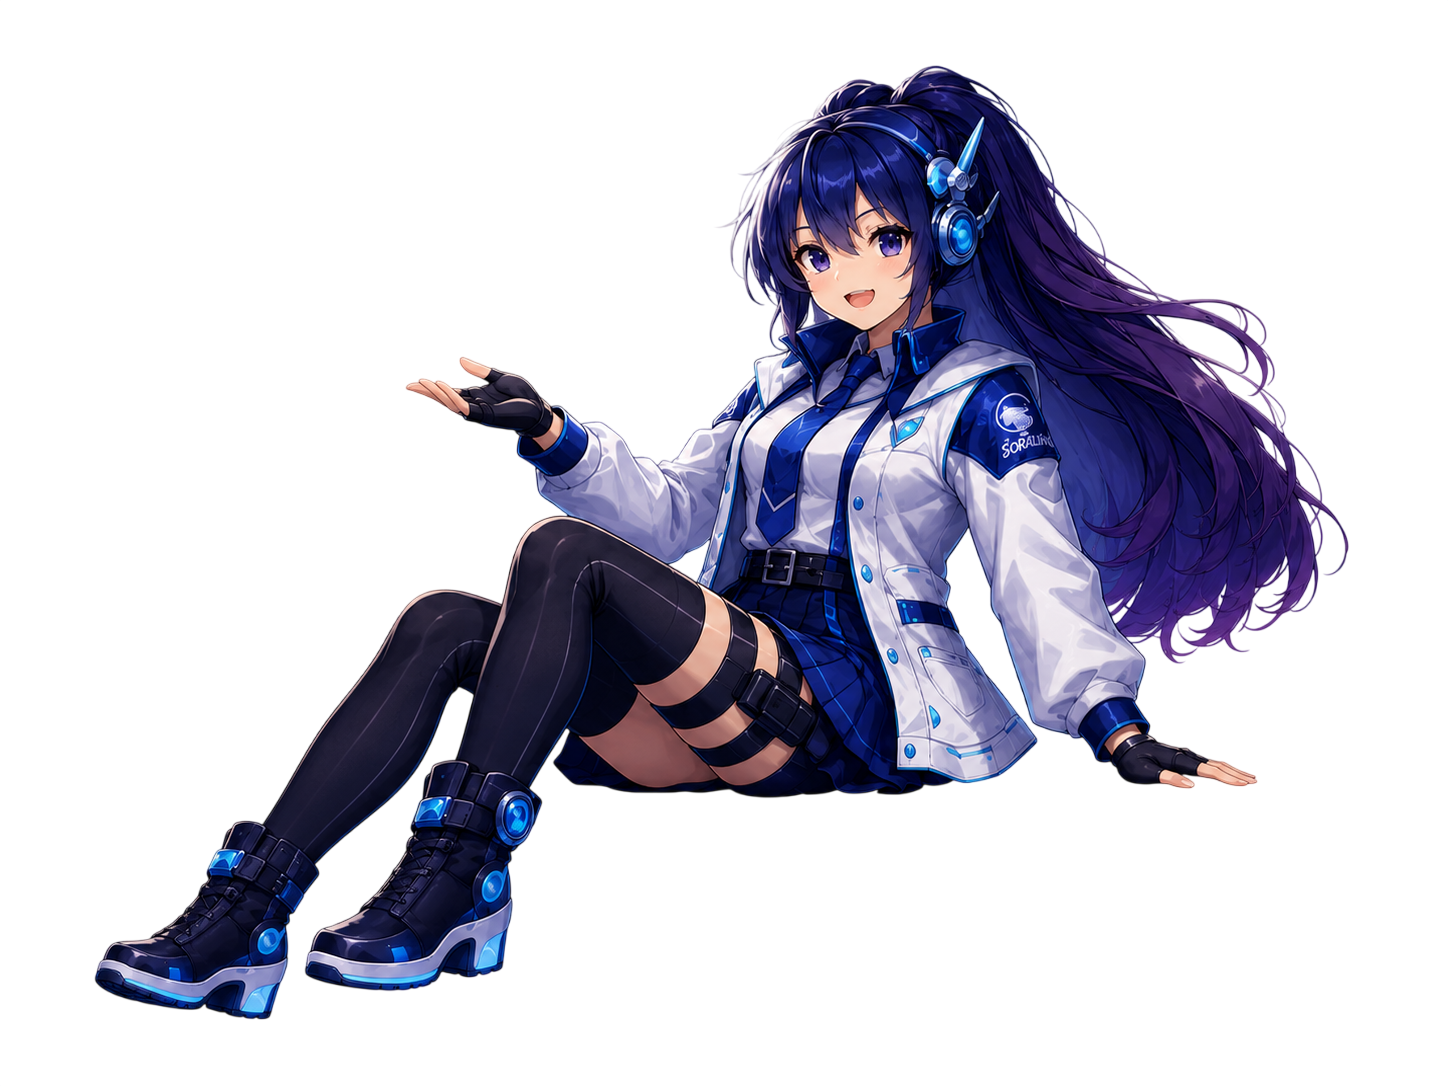
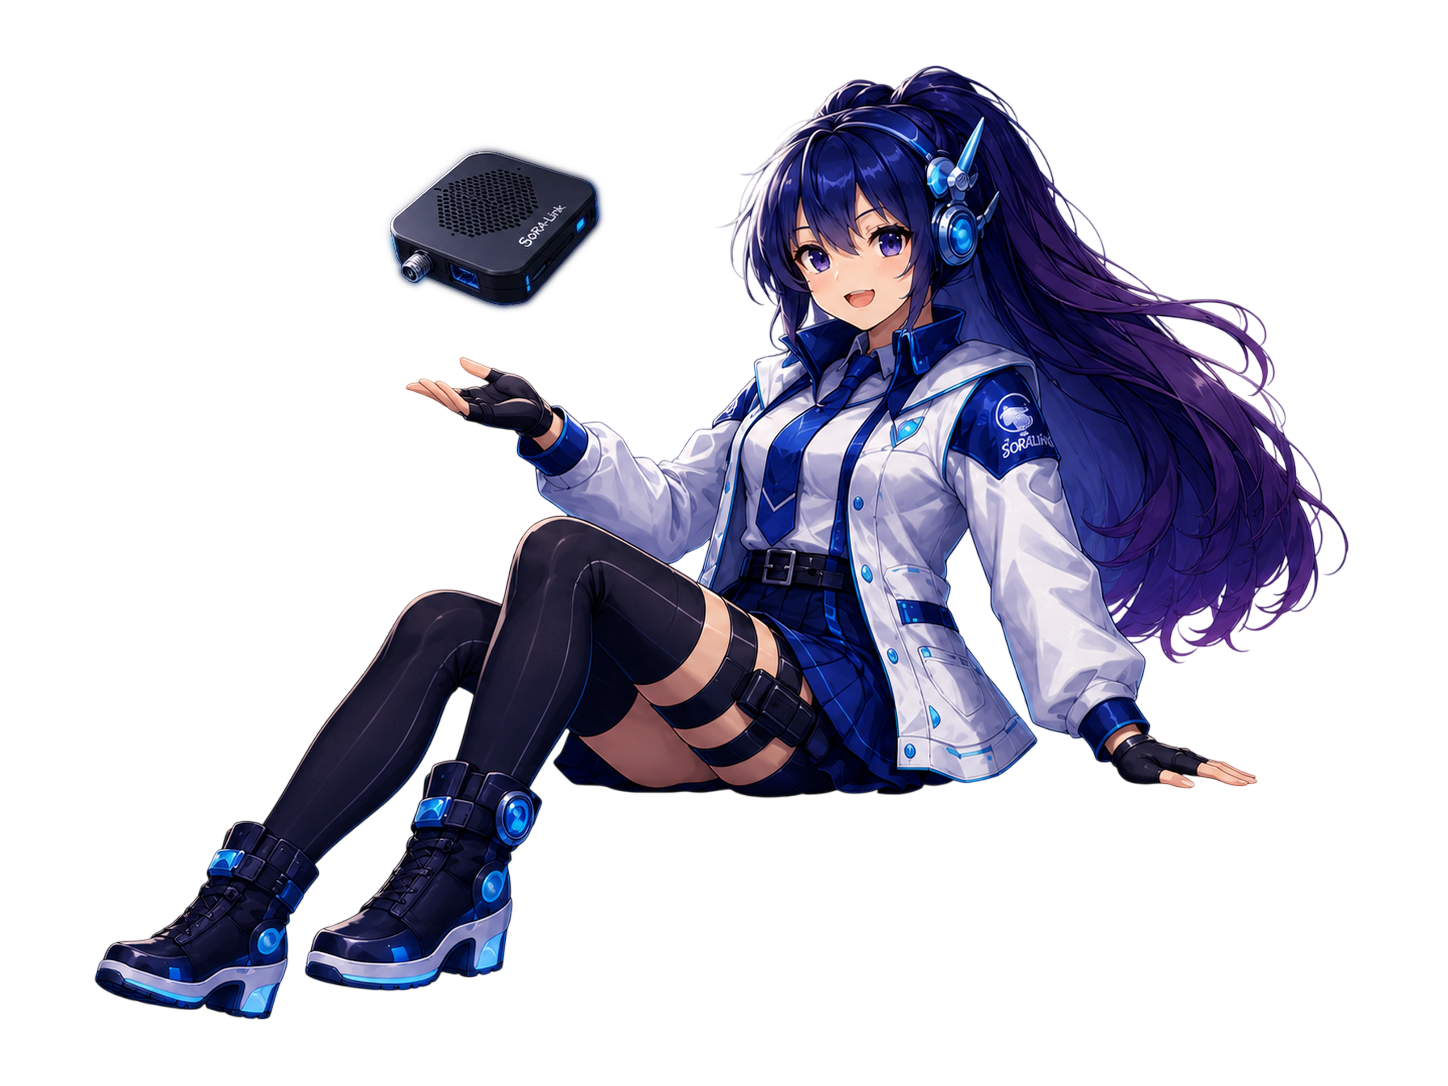
Add files via upload

Changed region(s): [[0.2486, 0.1215, 0.4351, 0.3039]]

diff --git a/web/index.html b/web/index.html
@@ -87,18 +87,12 @@
           </article>
 
           <div class="telemetry-row">
-            <!--
-              Two perfectly aligned mascot copies create the depth effect: the
-              rear copy continues behind the cards while the clipped front copy
-              keeps her upper body seated above their top edge.
-            -->
             <img class="mascot-overlap mascot-overlap-rear"
                  src="/admin/assets/soralink-mascot.png" alt="" aria-hidden="true" draggable="false">
             <img class="mascot-overlap mascot-overlap-front"
                  src="/admin/assets/soralink-mascot.png"
                  alt="Seated SORALink mascot presenting Mission Control" draggable="false">
             <div class="mascot-seat-edge" aria-hidden="true"></div>
-
             <article class="telemetry-card glass-panel"><span>Signal state</span><strong id="telemetry-signal">IDLE</strong><small id="telemetry-protocol">Protocol ready</small></article>
             <article class="telemetry-card glass-panel"><span>Connected viewers</span><strong id="telemetry-viewers">0</strong><small id="telemetry-capacity">Capacity 0</small></article>
             <article class="telemetry-card glass-panel"><span>Transport blocks</span><strong id="telemetry-blocks">0</strong><small id="telemetry-errors">0 timeouts</small></article>